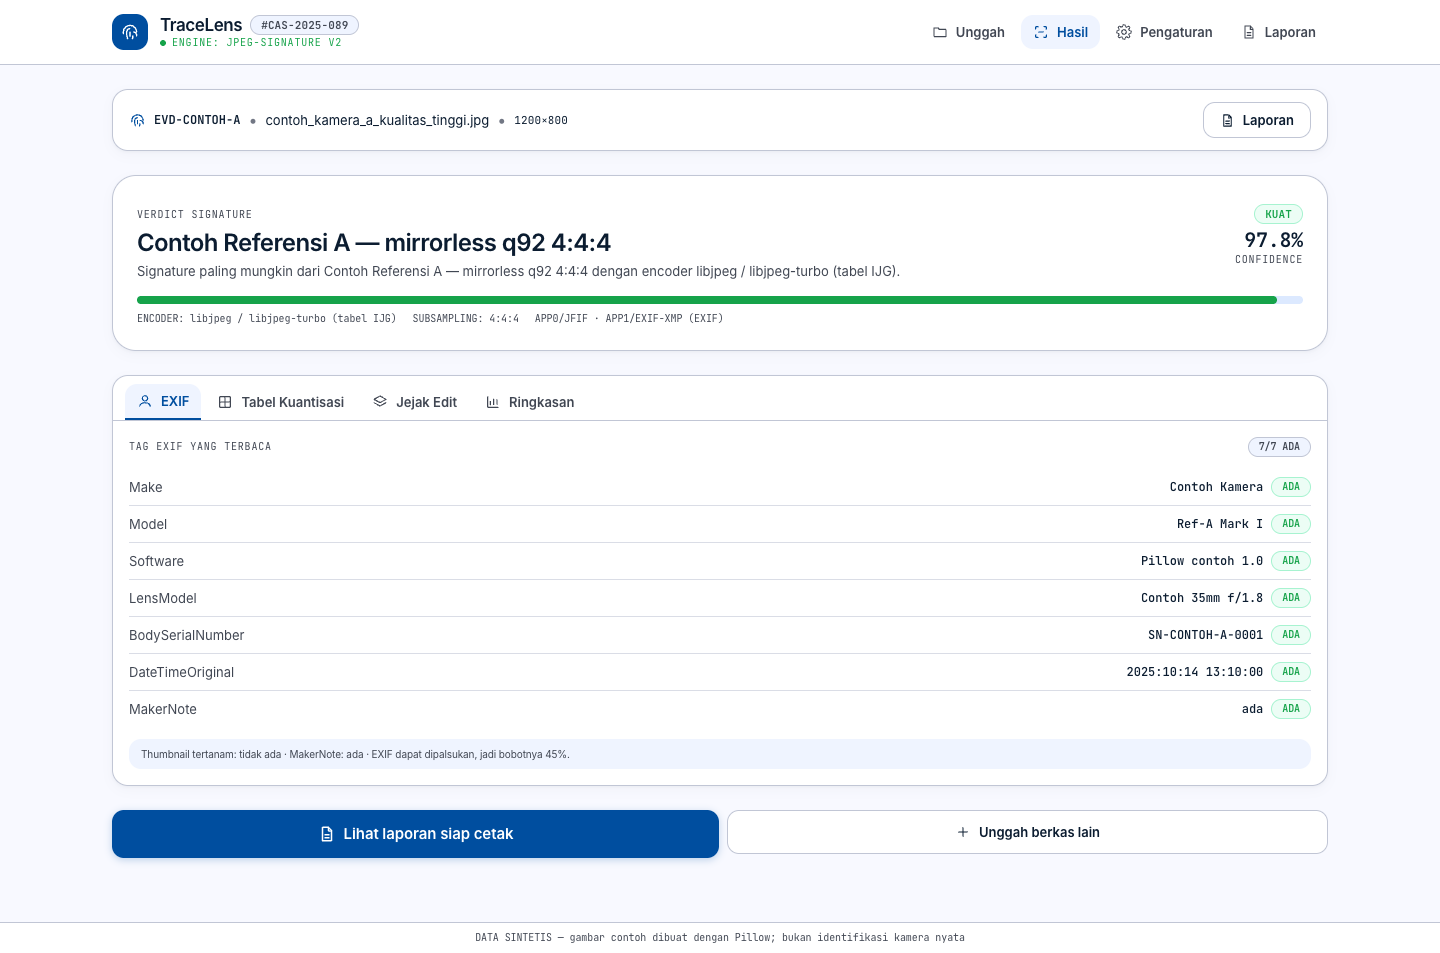
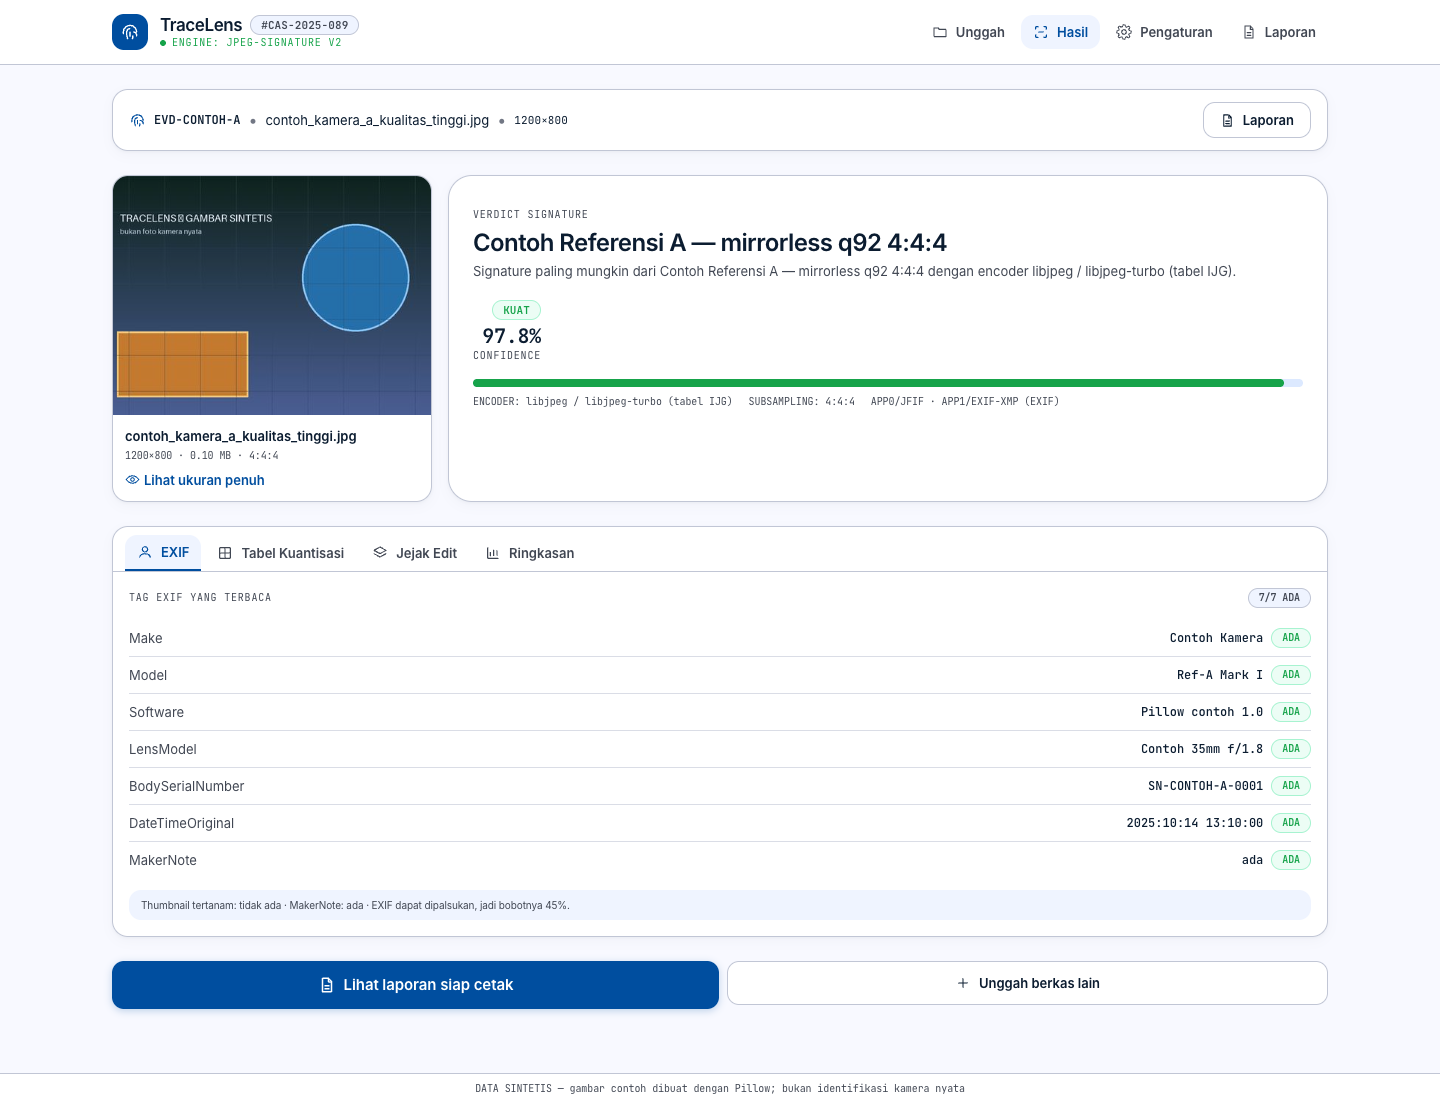
feat(evidence): serve the original image and a 480px thumbnail, show it on /hasil
There was no way to see the analysed photo: the file was stored but never served.

- GET/HEAD /api/evidence/{id}/image: the stored bytes unchanged (FileResponse,
  image/jpeg, real Content-Length, ETag = file sha256) so the DB hash still
  matches what a reviewer downloads
- GET/HEAD /api/evidence/{id}/thumbnail: <=480 px JPEG built per request with
  Pillow draft -> exif_transpose -> thumbnail, Cache-Control private max-age=3600,
  ETag from the original sha256, 304 on If-None-Match; nothing written to
  upload_dir
- both take the id from the DB (no caller path), 404 not_found for unknown ids,
  410 file_missing when the file is gone, 422 image_unreadable for corrupt files
- /hasil: fixed aspect-[4/3] thumbnail card (object-cover) with filename,
  dimensions, MB, subsampling and a 'Lihat ukuran penuh' link to /image, plus
  loading and 'pratinjau tidak tersedia' states
- / list rows get a 40px thumbnail
- evidence doc + screenshots refreshed

diff --git a/frontend/src/views/ResultView.vue b/frontend/src/views/ResultView.vue
@@ -12,6 +12,9 @@ const notFound = ref(false)
 const loading = ref(true)
 const tab = ref<'exif' | 'qtable' | 'trace' | 'summary'>('exif')
 const copied = ref('')
+const thumbState = ref<'loading' | 'ok' | 'error'>('loading')
+
+const sizeMb = computed(() => ((detail.value?.byte_size ?? 0) / 1024 / 1024).toFixed(2))
 
 const evidenceId = computed(() => route.params.id as string)
 
@@ -40,6 +43,7 @@ async function load() {
   loading.value = true
   error.value = ''
   notFound.value = false
+  thumbState.value = 'loading'
   try {
     detail.value = await api.detail(evidenceId.value)
   } catch (e) {
@@ -102,8 +106,55 @@ watch(evidenceId, load)
       </RouterLink>
     </section>
 
-    <section class="card-hero p-5 md:p-6">
-      <div class="flex flex-wrap items-start justify-between gap-4">
+    <div class="grid grid-cols-1 gap-4 lg:grid-cols-[320px_minmax(0,1fr)]">
+      <section class="card overflow-hidden" data-testid="evidence-thumb">
+        <div class="relative aspect-[4/3] w-full bg-surface-container-low">
+          <img
+            v-show="thumbState !== 'error'"
+            :src="api.thumbnailUrl(detail.id)"
+            :alt="`Pratinjau ${detail.filename}`"
+            loading="lazy"
+            class="h-full w-full object-cover"
+            data-testid="evidence-thumb-img"
+            @load="thumbState = 'ok'"
+            @error="thumbState = 'error'"
+          />
+          <div
+            v-if="thumbState === 'loading'"
+            class="absolute inset-0 flex items-center justify-center font-mono text-code-sm text-on-surface-variant"
+          >
+            memuat pratinjau…
+          </div>
+          <div
+            v-else-if="thumbState === 'error'"
+            class="absolute inset-0 flex flex-col items-center justify-center gap-1 bg-surface-container-low text-center"
+            data-testid="thumb-error"
+          >
+            <AppIcon name="alert" :size="18" class="text-danger" />
+            <span class="text-code-sm text-on-surface-variant">pratinjau tidak tersedia</span>
+          </div>
+        </div>
+        <div class="flex flex-col gap-1 p-3">
+          <p class="truncate text-body-sm font-semibold" :title="detail.filename">{{ detail.filename }}</p>
+          <p class="font-mono text-code-sm text-on-surface-variant">
+            <span class="tabular">{{ detail.width }}×{{ detail.height }}</span> ·
+            <span class="tabular">{{ sizeMb }} MB</span> ·
+            <span class="tabular">{{ detail.signature.encoder.subsampling }}</span>
+          </p>
+          <a
+            :href="api.imageUrl(detail.id)"
+            target="_blank"
+            rel="noopener"
+            class="mt-1 inline-flex items-center gap-1 text-body-sm font-semibold text-primary hover:underline"
+            data-testid="full-size-link"
+          >
+            <AppIcon name="eye" :size="15" /> Lihat ukuran penuh
+          </a>
+        </div>
+      </section>
+
+      <section class="card-hero p-5 md:p-6">
+        <div class="flex flex-wrap items-start justify-between gap-4">
         <div class="min-w-0">
           <span class="kicker text-[10px]">VERDICT SIGNATURE</span>
           <p class="mt-1 text-headline-lg tracking-tight">{{ detail.camera_guess }}</p>
@@ -138,7 +189,8 @@ watch(evidenceId, load)
           <span>{{ detail.signature.encoder.app_markers.join(' · ') || 'tanpa penanda APP' }}</span>
         </div>
       </div>
-    </section>
+      </section>
+    </div>
 
     <section class="card overflow-hidden">
       <div class="flex flex-wrap gap-1 border-b border-outline-variant px-3 pt-2">

diff --git a/frontend/src/views/UploadView.vue b/frontend/src/views/UploadView.vue
@@ -177,18 +177,28 @@ onMounted(refresh)
           class="flex flex-wrap items-center justify-between gap-3 border-b border-outline-variant/60 px-4 py-3 last:border-0"
           :data-evidence="item.id"
         >
-          <div class="min-w-0 flex-1">
-            <RouterLink
-              :to="`/hasil/${item.id}`"
-              class="font-mono text-label-md font-semibold text-primary hover:underline"
-            >
-              {{ item.id }}
-            </RouterLink>
+          <div class="flex min-w-0 flex-1 items-center gap-3">
+            <img
+              :src="api.thumbnailUrl(item.id)"
+              alt=""
+              loading="lazy"
+              class="h-10 w-10 shrink-0 rounded border border-outline-variant object-cover"
+              :data-thumb="item.id"
+              @error="($event.target as HTMLImageElement).style.visibility = 'hidden'"
+            />
+            <div class="min-w-0">
+              <RouterLink
+                :to="`/hasil/${item.id}`"
+                class="font-mono text-label-md font-semibold text-primary hover:underline"
+              >
+                {{ item.id }}
+              </RouterLink>
             <p class="truncate text-body-sm">{{ item.filename }}</p>
-            <p class="font-mono text-code-sm text-on-surface-variant">
-              {{ fmtSize(item.byte_size) }} · {{ item.width }}×{{ item.height }} ·
-              {{ fmtDate(item.uploaded_at) }}
-            </p>
+              <p class="font-mono text-code-sm text-on-surface-variant">
+                {{ fmtSize(item.byte_size) }} · {{ item.width }}×{{ item.height }} ·
+                {{ fmtDate(item.uploaded_at) }}
+              </p>
+            </div>
           </div>
           <div class="flex items-center gap-2">
             <span :class="verdictClass(item.verdict_label)" class="font-mono uppercase">

diff --git a/frontend/src/api.ts b/frontend/src/api.ts
@@ -35,6 +35,8 @@ export const api = {
   signature: (id: string) => call<Signature>(`/api/evidence/${id}/signature`),
   matches: (id: string) => call<Match[]>(`/api/evidence/${id}/matches`),
   remove: (id: string) => call<void>(`/api/evidence/${id}`, { method: 'DELETE' }),
+  imageUrl: (id: string) => `${BASE}/api/evidence/${id}/image`,
+  thumbnailUrl: (id: string) => `${BASE}/api/evidence/${id}/thumbnail`,
   settings: () => call<AppSettings>('/api/settings'),
   updateSettings: (maxUploadMb: number) =>
     call<AppSettings>('/api/settings', {

diff --git a/backend/app/routes_evidence.py b/backend/app/routes_evidence.py
@@ -3,12 +3,13 @@
 from __future__ import annotations
 
 import hashlib
+import io
 from datetime import datetime, timezone
 from pathlib import Path
 
-from fastapi import APIRouter, File, UploadFile
-from fastapi.responses import Response
-from PIL import Image, UnidentifiedImageError
+from fastapi import APIRouter, File, Request, UploadFile
+from fastapi.responses import FileResponse, Response
+from PIL import Image, ImageOps, UnidentifiedImageError
 
 from . import analyze, db, runtime_settings
 from .config import settings
@@ -200,6 +201,57 @@ def detail(evidence_id: str) -> EvidenceDetail:
     row = _row(evidence_id)
     return EvidenceDetail(
         **_out(row).model_dump(), signature=_signature(evidence_id), matches=_matches(evidence_id)
+    )
+
+
+THUMB_MAX_PX = 480
+CACHE_HEADER = "private, max-age=3600"
+
+
+def _stored_file(evidence_id: str) -> tuple[dict, Path]:
+    """Row + path from the DB id only — never a path supplied by the caller."""
+    row = _row(evidence_id)
+    path = Path(row["stored_path"])
+    if not path.is_file():
+        raise ApiError(f"berkas asli untuk {evidence_id} tidak ada di disk", "file_missing", 410)
+    return row, path
+
+
+@router.api_route("/{evidence_id}/image", methods=["GET", "HEAD"])
+def get_image(evidence_id: str, request: Request) -> Response:
+    """The original bytes, untouched: the DB sha256 must still match this file."""
+    row, path = _stored_file(evidence_id)
+    headers = {"Cache-Control": CACHE_HEADER, "ETag": f'"{row["sha256"]}"'}
+    if request.method == "HEAD":
+        # FileResponse drops Content-Length on HEAD in this starlette version
+        return Response(
+            status_code=200,
+            media_type="image/jpeg",
+            headers={**headers, "Content-Length": str(row["byte_size"])},
+        )
+    return FileResponse(path, media_type="image/jpeg", headers=headers)
+
+
+@router.api_route("/{evidence_id}/thumbnail", methods=["GET", "HEAD"])
+def get_thumbnail(evidence_id: str, request: Request) -> Response:
+    """480 px longest side, built on demand from the original; nothing is written to disk."""
+    row, path = _stored_file(evidence_id)
+    etag = f'"{row["sha256"]}"'
+    if request.headers.get("if-none-match") == etag:
+        return Response(status_code=304, headers={"ETag": etag, "Cache-Control": CACHE_HEADER})
+    try:
+        with Image.open(path) as img:
+            img.draft("RGB", (THUMB_MAX_PX * 2, THUMB_MAX_PX * 2))  # cheap JPEG pre-scale
+            upright = ImageOps.exif_transpose(img)
+            upright.thumbnail((THUMB_MAX_PX, THUMB_MAX_PX), Image.LANCZOS)
+            buf = io.BytesIO()
+            upright.convert("RGB").save(buf, "JPEG", quality=82, optimize=True)
+    except (OSError, UnidentifiedImageError) as exc:
+        raise ApiError(f"berkas {evidence_id} tidak bisa dibaca: {exc}", "image_unreadable", 422) from exc
+    return Response(
+        content=buf.getvalue(),
+        media_type="image/jpeg",
+        headers={"Cache-Control": CACHE_HEADER, "ETag": etag},
     )
 
 

diff --git a/backend/scripts/ui_check.py b/backend/scripts/ui_check.py
@@ -126,6 +126,14 @@ async def main() -> int:
                         primaryBg: btn ? getComputedStyle(btn).backgroundColor : null,
                         cardRadius: card ? getComputedStyle(card).borderRadius : null,
                         monoFont: mono ? getComputedStyle(mono).fontFamily.split(',')[0] : null,
+                        thumbLoaded: (() => {
+                          const el = document.querySelector('[data-testid="evidence-thumb-img"]');
+                          return el ? el.naturalWidth > 0 && el.complete : null;
+                        })(),
+                        thumbBox: (() => {
+                          const el = document.querySelector('[data-testid="evidence-thumb"]');
+                          return el ? Math.round(el.getBoundingClientRect().width) : null;
+                        })(),
                         text: document.body.innerText,
                       };
                     })()""")
@@ -144,6 +152,8 @@ async def main() -> int:
                                 for k in ("overflowX", "bodyFont", "surface", "primaryBg", "cardRadius")
                             },
                             "monoFont": (probe["monoFont"] or "").strip('"'),
+                            "thumbLoaded": probe["thumbLoaded"],
+                            "thumbBox": probe["thumbBox"],
                             "textChars": len(probe["text"]),
                             "head": " | ".join(line for line in probe["text"].split("\n") if line.strip())[
                                 :220

diff --git a/backend/scripts/api_evidence.py b/backend/scripts/api_evidence.py
@@ -144,6 +144,22 @@ def main() -> None:
     row("GET /api/evidence/NOPE", "GET", "/api/evidence/NOPE")
 
     lines.append("")
+    lines.append("# image + thumbnail (HEAD and GET)")
+    for label, path, method in (
+        ("HEAD /api/evidence/EVD-CONTOH-A/image", "/api/evidence/EVD-CONTOH-A/image", "HEAD"),
+        ("HEAD /api/evidence/EVD-CONTOH-A/thumbnail", "/api/evidence/EVD-CONTOH-A/thumbnail", "HEAD"),
+        ("GET  /api/evidence/EVD-CONTOH-A/image", "/api/evidence/EVD-CONTOH-A/image", "GET"),
+        ("GET  /api/evidence/EVD-CONTOH-A/thumbnail", "/api/evidence/EVD-CONTOH-A/thumbnail", "GET"),
+        ("GET  /api/evidence/NGARANG/image (404)", "/api/evidence/NGARANG/image", "GET"),
+    ):
+        status, payload, headers = call(method, path)
+        detail = (
+            f"{status} {len(payload)}B {headers.get('content-type')} "
+            f"len={headers.get('content-length')} cc={headers.get('cache-control')}"
+        )
+        lines.append(f"{label:<52} {detail}")
+
+    lines.append("")
     lines.append("# settings")
     row("GET /api/settings", "GET", "/api/settings")
     row("PATCH /api/settings max_upload_mb=0", "PATCH", "/api/settings", body={"max_upload_mb": 0})
